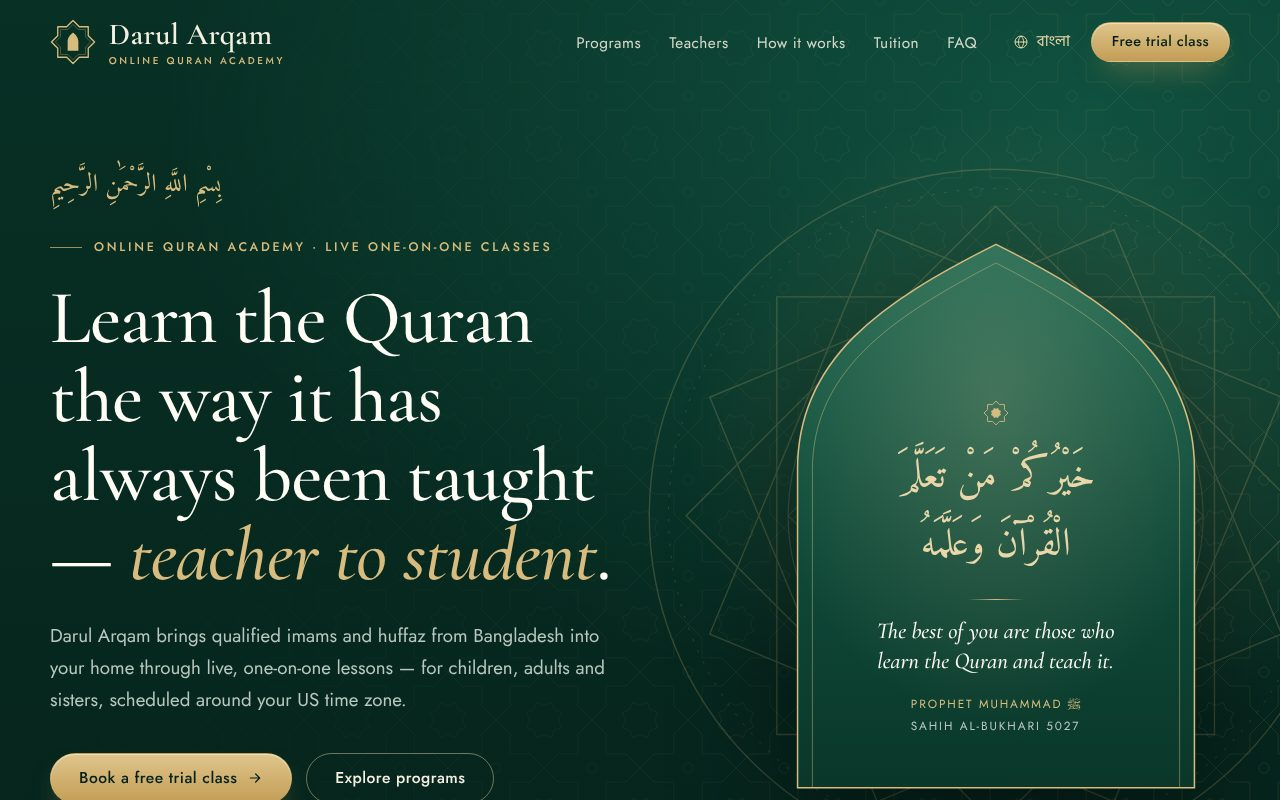
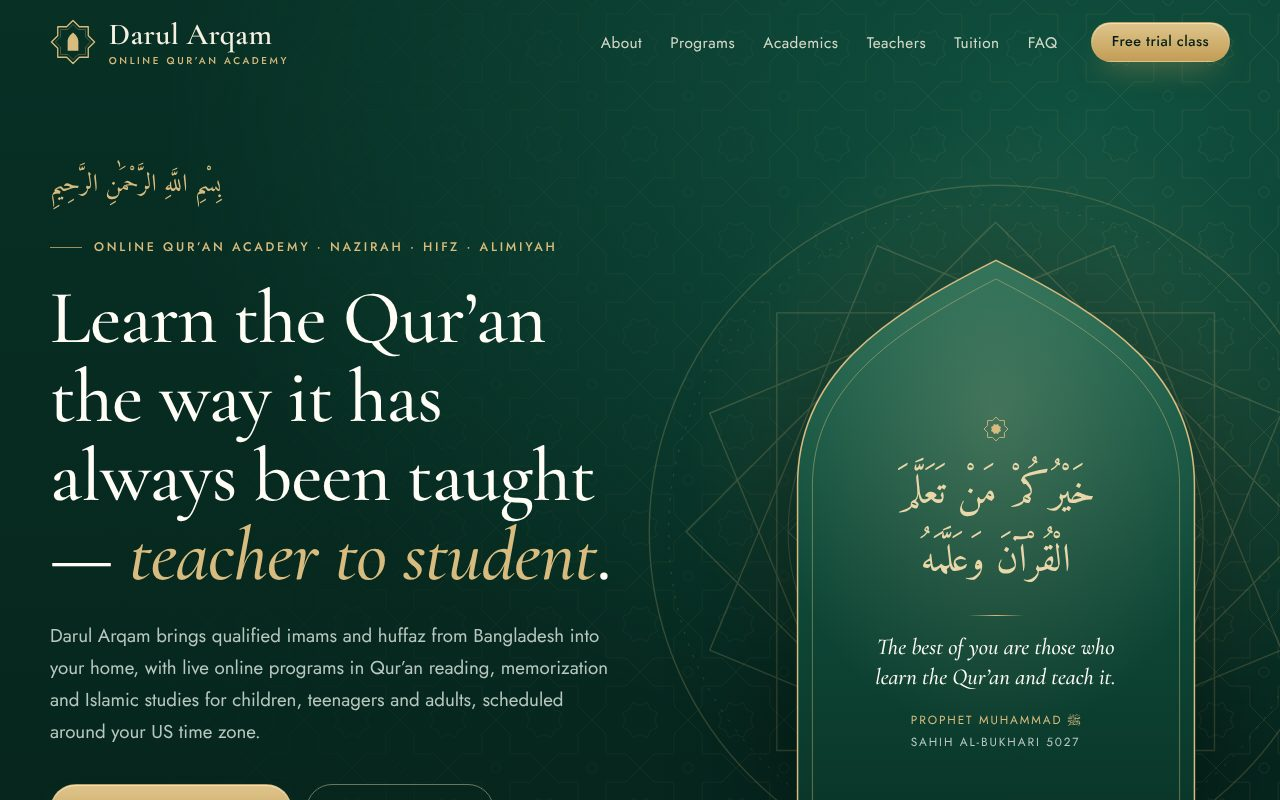
Update guides and the comparison page for the new content
- READMEs: where the content comes from, the new pages and chapters,
  and how to bring the Bangla version back
- designs.html: descriptions and links for the English-only sites;
  refreshed thumbnails

Claude-Session: https://claude.ai/code/session_01VzvBfsevj5XnByCRZLXgSL

diff --git a/designs.html b/designs.html
@@ -170,7 +170,7 @@
       <header>
         <p class="kicker">Darul Arqam · Online Quran Academy</p>
         <h1>Three designs to choose from</h1>
-        <p>All three carry the same content, in English and in Bangla. Open each one and click through it.</p>
+        <p>All three carry the same content, taken from the academy’s curriculum documents. Open each one and click through it.</p>
       </header>
 
       <div class="grid">
@@ -181,13 +181,12 @@
           <div class="body">
             <h2><span>Design 1</span>Classic</h2>
             <ul>
-              <li>One long page that scrolls through every section</li>
+              <li>A long home page, with a page for each program</li>
               <li>Deep emerald, antique gold and ivory</li>
               <li>Pointed arches, a star lattice and serif lettering</li>
             </ul>
             <p class="links">
-              <a href="html/index.html">Open in English</a>
-              <a href="html/bn/index.html" lang="bn">বাংলায় খুলুন</a>
+              <a href="html/index.html">Open design 1</a>
             </p>
           </div>
         </article>
@@ -199,13 +198,12 @@
           <div class="body">
             <h2><span>Design 2</span>Modern</h2>
             <ul>
-              <li>Seven separate pages, each opening with a Quranic verse</li>
+              <li>Twelve separate pages, each opening with a Quranic verse</li>
               <li>Lapis blue, turquoise and saffron on warm paper</li>
               <li>Round forms, a lattice of circles and bold lettering</li>
             </ul>
             <p class="links">
-              <a href="version-2/html/index.html">Open in English</a>
-              <a href="version-2/html/bn/index.html" lang="bn">বাংলায় খুলুন</a>
+              <a href="version-2/html/index.html">Open design 2</a>
             </p>
           </div>
         </article>
@@ -219,11 +217,10 @@
             <ul>
               <li>A book that opens, then turns its pages as you scroll</li>
               <li>Burgundy leather, gold leaf and cream paper</li>
-              <li>Thirty-two pages; each chapter opens with a Quranic verse</li>
+              <li>Sixty-four pages in twelve chapters, each opening with a verse</li>
             </ul>
             <p class="links">
-              <a href="version-3/html/index.html">Open in English</a>
-              <a href="version-3/html/bn/index.html" lang="bn">বাংলায় খুলুন</a>
+              <a href="version-3/html/index.html">Open design 3</a>
             </p>
           </div>
         </article>

diff --git a/version-3/README.md b/version-3/README.md
@@ -4,7 +4,7 @@ The third design of the Darul Arqam website: the content of the second design, p
 
 - **Look:** an illuminated book on a reading desk. Burgundy leather with gold tooling, cream paper with gold-ruled frames, and lapis-blue plates for the verses.
 - **Motion:** scrolling first opens the cover, then turns the pages one by one. The movement follows the scroll with a soft ease, and when the scrolling stops the book comes to rest on a whole page.
-- **Content:** thirty-two pages in seven chapters (home, about, programs, teachers, tuition, questions, free trial), in English and in Bangla. Each chapter opens with a Quranic verse. The free-trial form follows the book.
+- **Content:** sixty-four pages in twelve chapters: home, about, programs, Nazirah, Hifz, Alimiyah, Deeniyat, academics, teachers, tuition, questions and the free trial. Each chapter opens with a Quranic verse. The free-trial form follows the book.
 
 This folder is a complete project of its own. It shares nothing with the other designs, so they can be deleted once a design is chosen.
 
@@ -14,8 +14,7 @@ The finished site is in the [`html/`](html) folder, ready to use as it is:
 
 | File | What it is |
 | --- | --- |
-| `html/index.html` | The book in English |
-| `html/bn/index.html` | The book in Bangla |
+| `html/index.html` | The book |
 | `html/404.html` | The "page not found" page |
 | `html/assets/style.css` | The stylesheet |
 | `html/assets/*.woff2` | The fonts |
@@ -30,8 +29,8 @@ The files in `html/` are generated from the sources in `src/` with [Astro](https
 | --- | --- |
 | Open the book, turn a page | Scroll, or swipe on a touch screen |
 | Turn one page | Press the right or left arrow key, or the round buttons under the book |
-| Go to a chapter | Use the chapter names in the top bar, or the Contents page |
-| Read without the book | Choose "Plain view" in the top bar; "Book view" brings it back |
+| Go to a chapter | Use the "Chapters" button in the top bar, or the Contents page |
+| Read without the book | Open "Chapters" and choose "Plain view"; "Book view" brings it back |
 | Ask for a trial class | Use the "Free trial class" button; the form is after the last page |
 
 The book adapts to the screen:
@@ -39,6 +38,22 @@ The book adapts to the screen:
 - **Wide screens** show two pages side by side, and a leaf turns from right to left.
 - **Phones and narrow windows** show one page at a time; the sheet swings away to reveal the next.
 - **The plain view**, a simple column of the same pages, is used when a visitor has asked their device to reduce motion, when the window is too small for a readable book (a phone held sideways, for instance), when scripts are switched off, or on request.
+
+## Where the content comes from
+
+What Darul Arqam teaches, and how, is taken from the academy's four documents: the Public Academic Framework, the Nazirah al-Qur'an & Deeniyat Program, the Master Hifz & Deeniyat Curriculum, and the Alimiyah & Islamic Studies Program.
+
+That content lives in one file, `src/content/academy.ts`, which is identical in all three designs: programs, stages, syllabus units, semesters, outcomes, assessment, certification, vision, mission and values. Each design only decides how to show it. When the curriculum changes, change that file and copy it to the other designs.
+
+A page of the book has a fixed size, so the book carries a summary of the curriculum: the stages, subjects, semesters and outcomes, without the unit-by-unit detail that the other two designs can unfold. Two editorial choices were made throughout: American spelling (program, memorize), and one spelling for each Arabic term (Tawheed, Zakat, Qur'an).
+
+One thing on the site comes from the academy directly rather than from the documents: Nazirah and Hifz are taught one-on-one, while Alimiyah and Junior Islamic Studies are taught in group classes by semester. Two things should still be confirmed: the certificate wording, which turns the documents' certification policy into a plain public statement that a certificate is not an accredited degree; and that the first class is free.
+
+## Languages
+
+The site is published in English. A Bangla version existed for the earlier content and is switched off until the new content has been translated, so that the two languages never disagree.
+
+To bring Bangla back: add `src/i18n/bn.ts` with the same shape as `en.ts`, add `'bn'` to `published` in `src/i18n/index.ts`, and add the pages under `src/pages/bn/`. The language switch then reappears by itself. The earlier Bangla wording is in the repository history (`src/i18n/bn.ts` before the commit "restructure around the academy's curriculum documents") and is a useful starting point for the parts that did not change. The Bangla fonts and type settings are still in place.
 
 ## Run it
 
@@ -62,11 +77,11 @@ npm run build
 
 | To change | Edit |
 | --- | --- |
+| The curriculum: programs, stages, subjects, semesters, values | `src/content/academy.ts` |
 | Contact details, form destination, tuition prices, site address | `src/config/site.ts` |
 | Teacher profiles | `src/config/teachers.ts` |
-| English wording, and the meaning of each verse | `src/i18n/en.ts` |
-| Bangla wording, and the meaning of each verse | `src/i18n/bn.ts` |
-| Arabic texts: the verses, the hadith, program emblems | `src/i18n/index.ts` |
+| Chapter names, headings, the meaning of each verse, questions, labels | `src/i18n/en.ts` |
+| Arabic texts: the verses, the hadith | `src/i18n/index.ts` |
 | What is on each page of the book | `src/components/BookPages.astro` |
 | The chapters and the page each starts on | `src/lib/chapters.ts` |
 | The cover, the controls, and the script that turns the pages | `src/components/Book.astro` |
@@ -74,8 +89,6 @@ npm run build
 | How the cover and the pages look | `src/styles/pages.css` |
 | Colours and fonts | `src/styles/global.css` |
 | The free-trial form | `src/components/Trial.astro` |
-
-The two language files have the same shape. When you add or reword something in one, do the same in the other.
 
 ### Adding, removing or moving a page
 
@@ -97,7 +110,7 @@ These are in the script at the bottom of `src/components/Book.astro`:
 
 ### The verses
 
-Each chapter's verse has three parts: the Arabic in `src/i18n/index.ts` (under `verses`), and its meaning and reference in each language file (under `pages`). The Arabic is in the simple script with full vowel marks and was checked against the Tanzil text of the Quran. Where a chapter quotes part of a verse, its reference begins with "From". The meanings are plain renderings written for this site; have someone qualified review them, in both languages, before the site goes live.
+Each chapter's verse has three parts: the Arabic in `src/i18n/index.ts` (under `verses`), and its meaning and reference in `src/i18n/en.ts` (under `pages`). The Arabic is in the simple script with full vowel marks and was checked against the Tanzil text of the Quran. Where a chapter quotes part of a verse, its reference begins with "From". The meanings are plain renderings written for this site; have someone qualified review them before the site goes live.
 
 ## Before going live
 
@@ -115,11 +128,9 @@ The wording also states a few things about how the academy works. Check that eac
 - Classes last 30 minutes.
 - The first class is free.
 - Students are taught from about five years old.
-- Lessons can be taught in English or in Bangla.
 - Tuition is month to month, with no long contract.
 - A missed class can be made up when the teacher is told in advance.
 - Parents receive regular progress updates.
-- Teachers have a formal madrasah education and experience teaching both children and adults.
 
 ## The free-trial form
 
@@ -140,7 +151,7 @@ Point the host's "not found" page at `404.html`. That one page uses links from t
 ## Design notes
 
 - **Palette:** burgundy leather, gold leaf, cream paper, lapis blue and the red ink of manuscript headings, defined as custom properties at the top of `src/styles/global.css`.
-- **Type:** EB Garamond for text, Cinzel for small capitals, Amiri Quran for verses, Aref Ruqaa for the Arabic name, Tiro Bangla for Bangla. The fonts are bundled with the site, so nothing is loaded from a third party.
+- **Type:** EB Garamond for text, Cinzel for small capitals, Amiri Quran for verses, Aref Ruqaa for the Arabic name, and Tiro Bangla ready for a Bangla version. The fonts are bundled with the site, so nothing is loaded from a third party.
 - **Ornament:** the eight-pointed star, a rosette woven from turned squares, and gold-ruled frames with a knot at each corner.
 - **How the turning stays smooth:** each frame moves only the leaf in the air and fades a few shadows, using properties the graphics card handles by itself; the pages are never laid out again while they turn. Only the leaves next to the open page are drawn at all.
 - **For search engines and screen readers** the pages are ordinary HTML in reading order. Only the pages being read can be clicked or reached with the keyboard.

diff --git a/version-2/README.md b/version-2/README.md
@@ -3,7 +3,7 @@
 The second design of the Darul Arqam website: the same content as the first design, laid out as a **multi-page site** with its own look.
 
 - **Look:** lapis blue, turquoise and saffron on warm paper, with round forms and a lattice of overlapping circles.
-- **Pages:** home, about, programs, teachers, tuition, questions and the free-trial form, in English and in Bangla.
+- **Pages:** twelve: home, about, programs, a page each for Nazirah, Hifz, Alimiyah and Deeniyat, academics, teachers, tuition, questions and the free-trial form.
 - **Verses:** every page opens with a Quranic verse related to its subject.
 
 This folder is a complete project of its own. It shares nothing with the first design in the folder above, so either one can be deleted once a design is chosen.
@@ -15,19 +15,40 @@ The finished site is in the [`html/`](html) folder, ready to use as it is:
 | File | Page | Verse |
 | --- | --- | --- |
 | `index.html` | Home | al-'Alaq 96:1 |
-| `about.html` | About | al-Jumu'ah 62:2 |
-| `programs.html` | Programs | al-Qamar 54:17 |
+| `about.html` | About: the name, vision, mission, values | al-Jumu'ah 62:2 |
+| `programs.html` | Programs: overview, and where to begin by age | al-Qamar 54:17 |
+| `nazirah.html` | Nazirah al-Qur'an: reading, in five stages | from al-Muzzammil 73:4 |
+| `hifz.html` | Hifz al-Qur'an: memorization, in two tracks | al-Hijr 15:9 |
+| `alimiyah.html` | Alimiyah and Islamic Studies: three divisions | from at-Tawbah 9:122 |
+| `deeniyat.html` | Deeniyat: eight subjects | al-Bayyinah 98:5 |
+| `academics.html` | Philosophy, teaching, assessment, standards, welfare | from al-Mujadilah 58:11 |
 | `teachers.html` | Teachers | from al-'Ankabut 29:49 |
 | `tuition.html` | Tuition and how it works | from al-Muzzammil 73:20 |
 | `faq.html` | Questions | from an-Nahl 16:43 |
 | `free-trial.html` | Free-trial request form | from Ta-Ha 20:114 |
 | `404.html` | "Page not found" | none |
 
-The Bangla pages have the same names inside `html/bn/`. The stylesheet and fonts are in `html/assets/`.
+The stylesheet and fonts are in `html/assets/`.
 
 Double-click `html/index.html` to view the site in a browser, or upload everything inside `html/` to a web host. The pages use relative links, so they work from disk, from the root of a domain, or from any sub-folder.
 
 The files in `html/` are generated from the sources in `src/` with [Astro](https://astro.build). Change the sources and build again, rather than editing the generated files, or the next build will overwrite your edits.
+
+## Where the content comes from
+
+What Darul Arqam teaches, and how, is taken from the academy's four documents: the Public Academic Framework, the Nazirah al-Qur'an & Deeniyat Program, the Master Hifz & Deeniyat Curriculum, and the Alimiyah & Islamic Studies Program.
+
+That content lives in one file, `src/content/academy.ts`, which is identical in all three designs: programs, stages, syllabus units, semesters, outcomes, assessment, certification, vision, mission and values. Each design only decides how to show it. When the curriculum changes, change that file and copy it to the other designs.
+
+The site shows a curated version of the curriculum: the structure and outcomes are always visible, and the unit-by-unit detail opens on request ("What is covered"). Two editorial choices were made throughout: American spelling (program, memorize), and one spelling for each Arabic term (Tawheed, Zakat, Qur'an).
+
+One thing on the site comes from the academy directly rather than from the documents: Nazirah and Hifz are taught one-on-one, while Alimiyah and Junior Islamic Studies are taught in group classes by semester. Two things should still be confirmed: the certificate wording, which turns the documents' certification policy into a plain public statement that a certificate is not an accredited degree; and that the first class is free.
+
+## Languages
+
+The site is published in English. A Bangla version existed for the earlier content and is switched off until the new content has been translated, so that the two languages never disagree.
+
+To bring Bangla back: add `src/i18n/bn.ts` with the same shape as `en.ts`, add `'bn'` to `published` in `src/i18n/index.ts`, and add the pages under `src/pages/bn/`. The language switch then reappears by itself. The earlier Bangla wording is in the repository history (`src/i18n/bn.ts` before the commit "restructure around the academy's curriculum documents") and is a useful starting point for the parts that did not change. The Bangla fonts and type settings are still in place.
 
 ## Run it
 
@@ -51,21 +72,19 @@ npm run build
 
 | To change | Edit |
 | --- | --- |
+| The curriculum: programs, stages, subjects, semesters, values | `src/content/academy.ts` |
 | Contact details, form destination, tuition prices, site address | `src/config/site.ts` |
 | Teacher profiles | `src/config/teachers.ts` |
-| English wording, page titles, the meaning of each verse | `src/i18n/en.ts` |
-| Bangla wording, page titles, the meaning of each verse | `src/i18n/bn.ts` |
-| Arabic texts: the verses, the hadith, program emblems | `src/i18n/index.ts` |
-| Which pages exist and their file names | `src/lib/routes.ts` |
-| Colours, fonts, spacing | `src/styles/global.css` |
+| Page titles and headings, the meaning of each verse, questions, labels | `src/i18n/en.ts` |
+| Arabic texts: the verses, the hadith | `src/i18n/index.ts` |
+| Which pages exist, their file names and the menu | `src/lib/routes.ts` |
+| Colours, fonts, spacing, shared pieces | `src/styles/global.css` |
 | What a page contains | `src/views/<Page>View.astro` |
 | How one block looks | `src/components/<Block>.astro` |
 
-The two language files have the same shape. When you add or reword something in one, do the same in the other.
-
 ### The verses
 
-Each page's verse has three parts: the Arabic in `src/i18n/index.ts` (under `verses`), and its meaning and reference in each language file (under `pages`). The Arabic is in the simple script with full vowel marks and was checked against the Tanzil text of the Quran. Where a page quotes part of a verse, its reference begins with "From". The meanings are plain renderings written for this site; have someone qualified review them, in both languages, before the site goes live.
+Each page's verse has three parts: the Arabic in `src/i18n/index.ts` (under `verses`), and its meaning and reference in `src/i18n/en.ts` (under `pages`). The Arabic is in the simple script with full vowel marks and was checked against the Tanzil text of the Quran. Where a page quotes part of a verse, its reference begins with "From". The meanings are plain renderings written for this site; have someone qualified review them before the site goes live.
 
 To change a page's verse, replace all three parts together.
 
@@ -85,11 +104,9 @@ The wording also states a few things about how the academy works. Check that eac
 - Classes last 30 minutes.
 - The first class is free.
 - Students are taught from about five years old.
-- Lessons can be taught in English or in Bangla.
 - Tuition is month to month, with no long contract.
 - A missed class can be made up when the teacher is told in advance.
 - Parents receive regular progress updates.
-- Teachers have a formal madrasah education and experience teaching both children and adults.
 
 ## The free-trial form
 

diff --git a/README.md b/README.md
@@ -6,7 +6,7 @@ This repository holds **three designs** of the site, with the same content, so t
 
 | | Design 1, classic | Design 2, modern | Design 3, the book |
 | --- | --- | --- | --- |
-| Layout | One long page | Seven separate pages | A book that opens and turns its pages as you scroll |
+| Layout | A long home page, with a page for each program | Twelve separate pages | A book of 64 pages that opens and turns as you scroll |
 | Look | Deep emerald, antique gold and ivory; pointed arches and a star lattice | Lapis blue, turquoise and saffron on warm paper; round forms | Burgundy leather, gold leaf and cream paper; illuminated verse plates |
 | Sources | This folder (`src/`) | [`version-2/`](version-2) | [`version-3/`](version-3) |
 | HTML files | [`html/`](html) | [`version-2/html/`](version-2/html) | [`version-3/html/`](version-3/html) |
@@ -20,8 +20,8 @@ The designs are separate projects that share nothing. Contact details, prices an
 
 It is a static site: plain HTML, CSS and a little JavaScript, with no server and no database.
 
-- English lives at `/`, Bangla at `/bn/`.
-- Sections: introduction, the story of the name, programs, who we teach, teachers and their profiles, how it works, tuition, questions, and the free-trial request form.
+- **Home** is one long page: introduction, the story of the name, vision and mission, programs, who we teach, the educational philosophy, teachers and their profiles, how it works, tuition, questions, and the free-trial request form.
+- **Five more pages** go into detail: Nazirah, Hifz, Alimiyah, Deeniyat and Academics. Each opens with a related Quranic verse in an arch.
 
 ## The HTML files
 
@@ -29,15 +29,34 @@ The finished site is in the [`html/`](html) folder, ready to use as it is:
 
 | File | What it is |
 | --- | --- |
-| `html/index.html` | The English page |
-| `html/bn/index.html` | The Bangla page |
+| `html/index.html` | The home page |
+| `html/nazirah.html` | Nazirah al-Qur'an: reading, in five stages |
+| `html/hifz.html` | Hifz al-Qur'an: memorization, in two tracks |
+| `html/alimiyah.html` | Alimiyah and Islamic Studies: three divisions |
+| `html/deeniyat.html` | Deeniyat: the eight subjects every Qur'an student takes |
+| `html/academics.html` | Philosophy, teaching, assessment, standards and welfare |
 | `html/404.html` | The "page not found" page |
-| `html/assets/style.css` | The stylesheet |
-| `html/assets/*.woff2` | The fonts |
+| `html/assets/` | The stylesheet and the fonts |
 
 Double-click `html/index.html` to view the site in a browser, or upload everything inside `html/` to a web host. The pages use relative links, so they work from disk, from the root of a domain, or from any sub-folder.
 
 The files in `html/` are generated from the sources in `src/` with [Astro](https://astro.build). Change the sources and build again, rather than editing the generated files, or the next build will overwrite your edits.
+
+## Where the content comes from
+
+What Darul Arqam teaches, and how, is taken from the academy's four documents: the Public Academic Framework, the Nazirah al-Qur'an & Deeniyat Program, the Master Hifz & Deeniyat Curriculum, and the Alimiyah & Islamic Studies Program.
+
+That content lives in one file, `src/content/academy.ts`, which is identical in all three designs: programs, stages, syllabus units, semesters, outcomes, assessment, certification, vision, mission and values. Each design only decides how to show it. When the curriculum changes, change that file and copy it to the other designs.
+
+The site shows a curated version of the curriculum: the structure and outcomes are always visible, and the unit-by-unit detail opens on request ("What is covered"). Two editorial choices were made throughout: American spelling (program, memorize), and one spelling for each Arabic term (Tawheed, Zakat, Qur'an).
+
+One thing on the site comes from the academy directly rather than from the documents: Nazirah and Hifz are taught one-on-one, while Alimiyah and Junior Islamic Studies are taught in group classes by semester. Two things should still be confirmed: the certificate wording, which turns the documents' certification policy into a plain public statement that a certificate is not an accredited degree; and that the first class is free.
+
+## Languages
+
+The site is published in English. A Bangla version existed for the earlier content and is switched off until the new content has been translated, so that the two languages never disagree.
+
+To bring Bangla back: add `src/i18n/bn.ts` with the same shape as `en.ts`, add `'bn'` to `published` in `src/i18n/index.ts`, and add the pages under `src/pages/bn/`. The language switch then reappears by itself. The earlier Bangla wording is in the repository history (`src/i18n/bn.ts` before the commit "restructure around the academy's curriculum documents") and is a useful starting point for the parts that did not change. The Bangla fonts and type settings are still in place.
 
 ## Run it
 
@@ -61,15 +80,15 @@ npm run build
 
 | To change | Edit |
 | --- | --- |
+| The curriculum: programs, stages, subjects, semesters, values | `src/content/academy.ts` |
 | Contact details, form destination, tuition prices, site address | `src/config/site.ts` |
 | Teacher profiles | `src/config/teachers.ts` |
-| English wording | `src/i18n/en.ts` |
-| Bangla wording | `src/i18n/bn.ts` |
-| Arabic texts (hadith, ayat, program emblems) | `src/i18n/index.ts` |
-| Colours, fonts, spacing | `src/styles/global.css` |
-| Layout of a section | `src/components/<Section>.astro` |
-
-The two language files have the same shape. When you add or reword something in one, do the same in the other.
+| Headings, page titles, questions, form labels and other wording | `src/i18n/en.ts` |
+| Arabic texts: the verses, the hadith | `src/i18n/index.ts` |
+| Which pages exist and their file names | `src/lib/routes.ts` |
+| Colours, fonts, spacing, shared pieces | `src/styles/global.css` |
+| A section of the home page | `src/components/<Section>.astro` |
+| A program or academics page | `src/views/<Page>View.astro` |
 
 ## Before going live
 
@@ -87,11 +106,9 @@ The wording also states a few things about how the academy works. Check that eac
 - Classes last 30 minutes.
 - The first class is free.
 - Students are taught from about five years old.
-- Lessons can be taught in English or in Bangla.
 - Tuition is month to month, with no long contract.
 - A missed class can be made up when the teacher is told in advance.
 - Parents receive regular progress updates.
-- Teachers have a formal madrasah education and experience teaching both children and adults.
 
 ## The free-trial form
 
